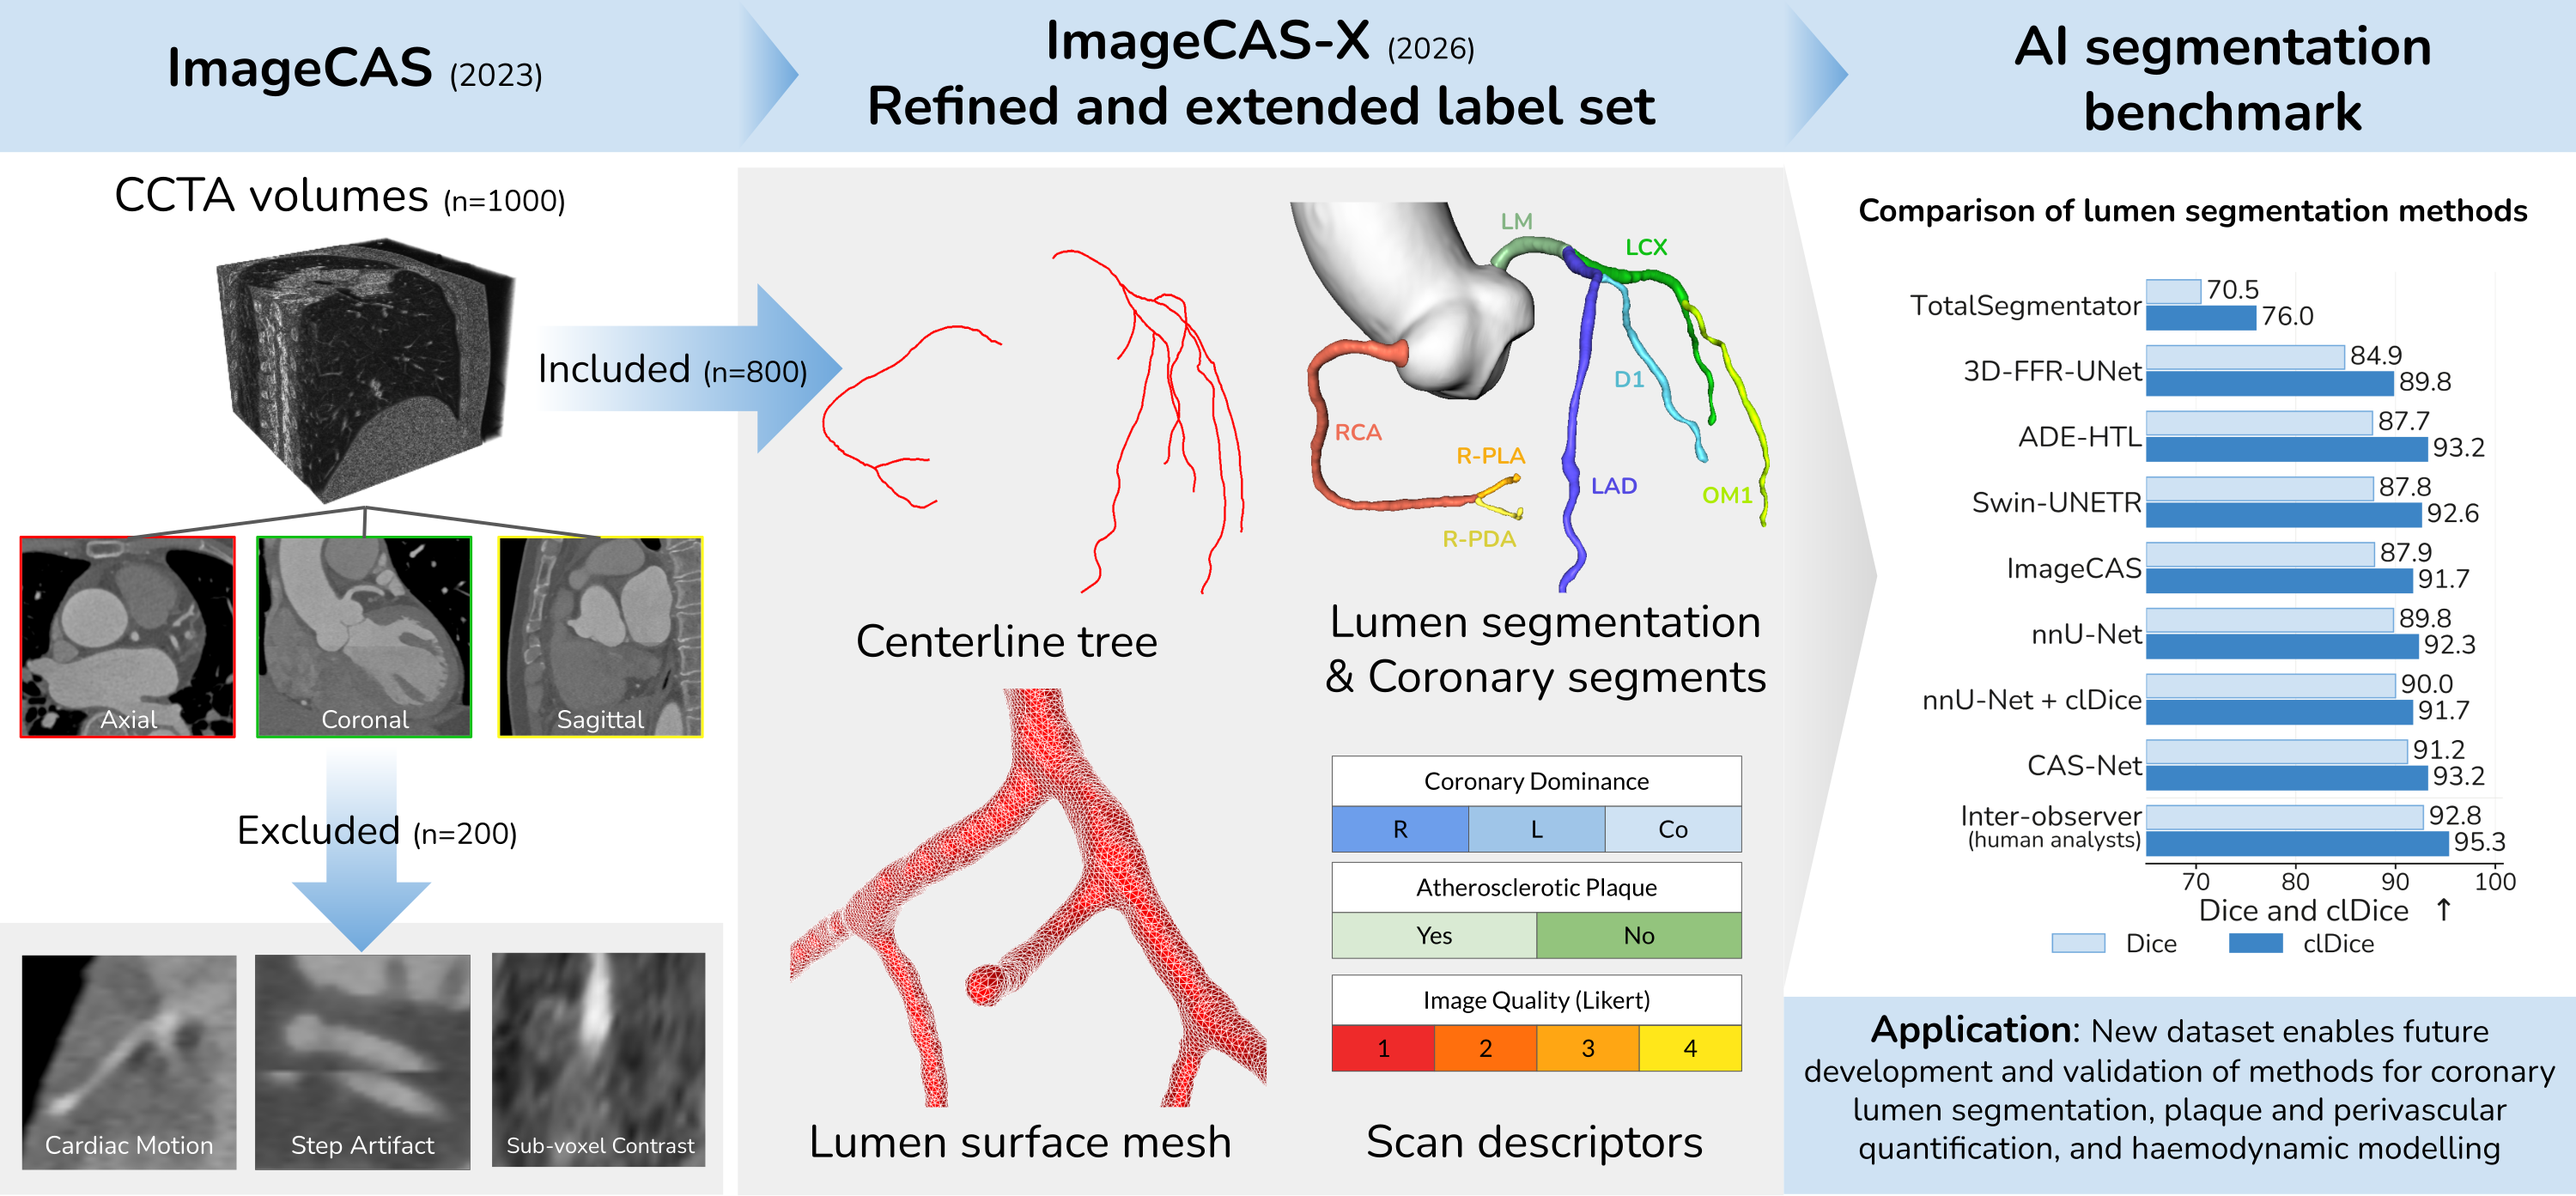
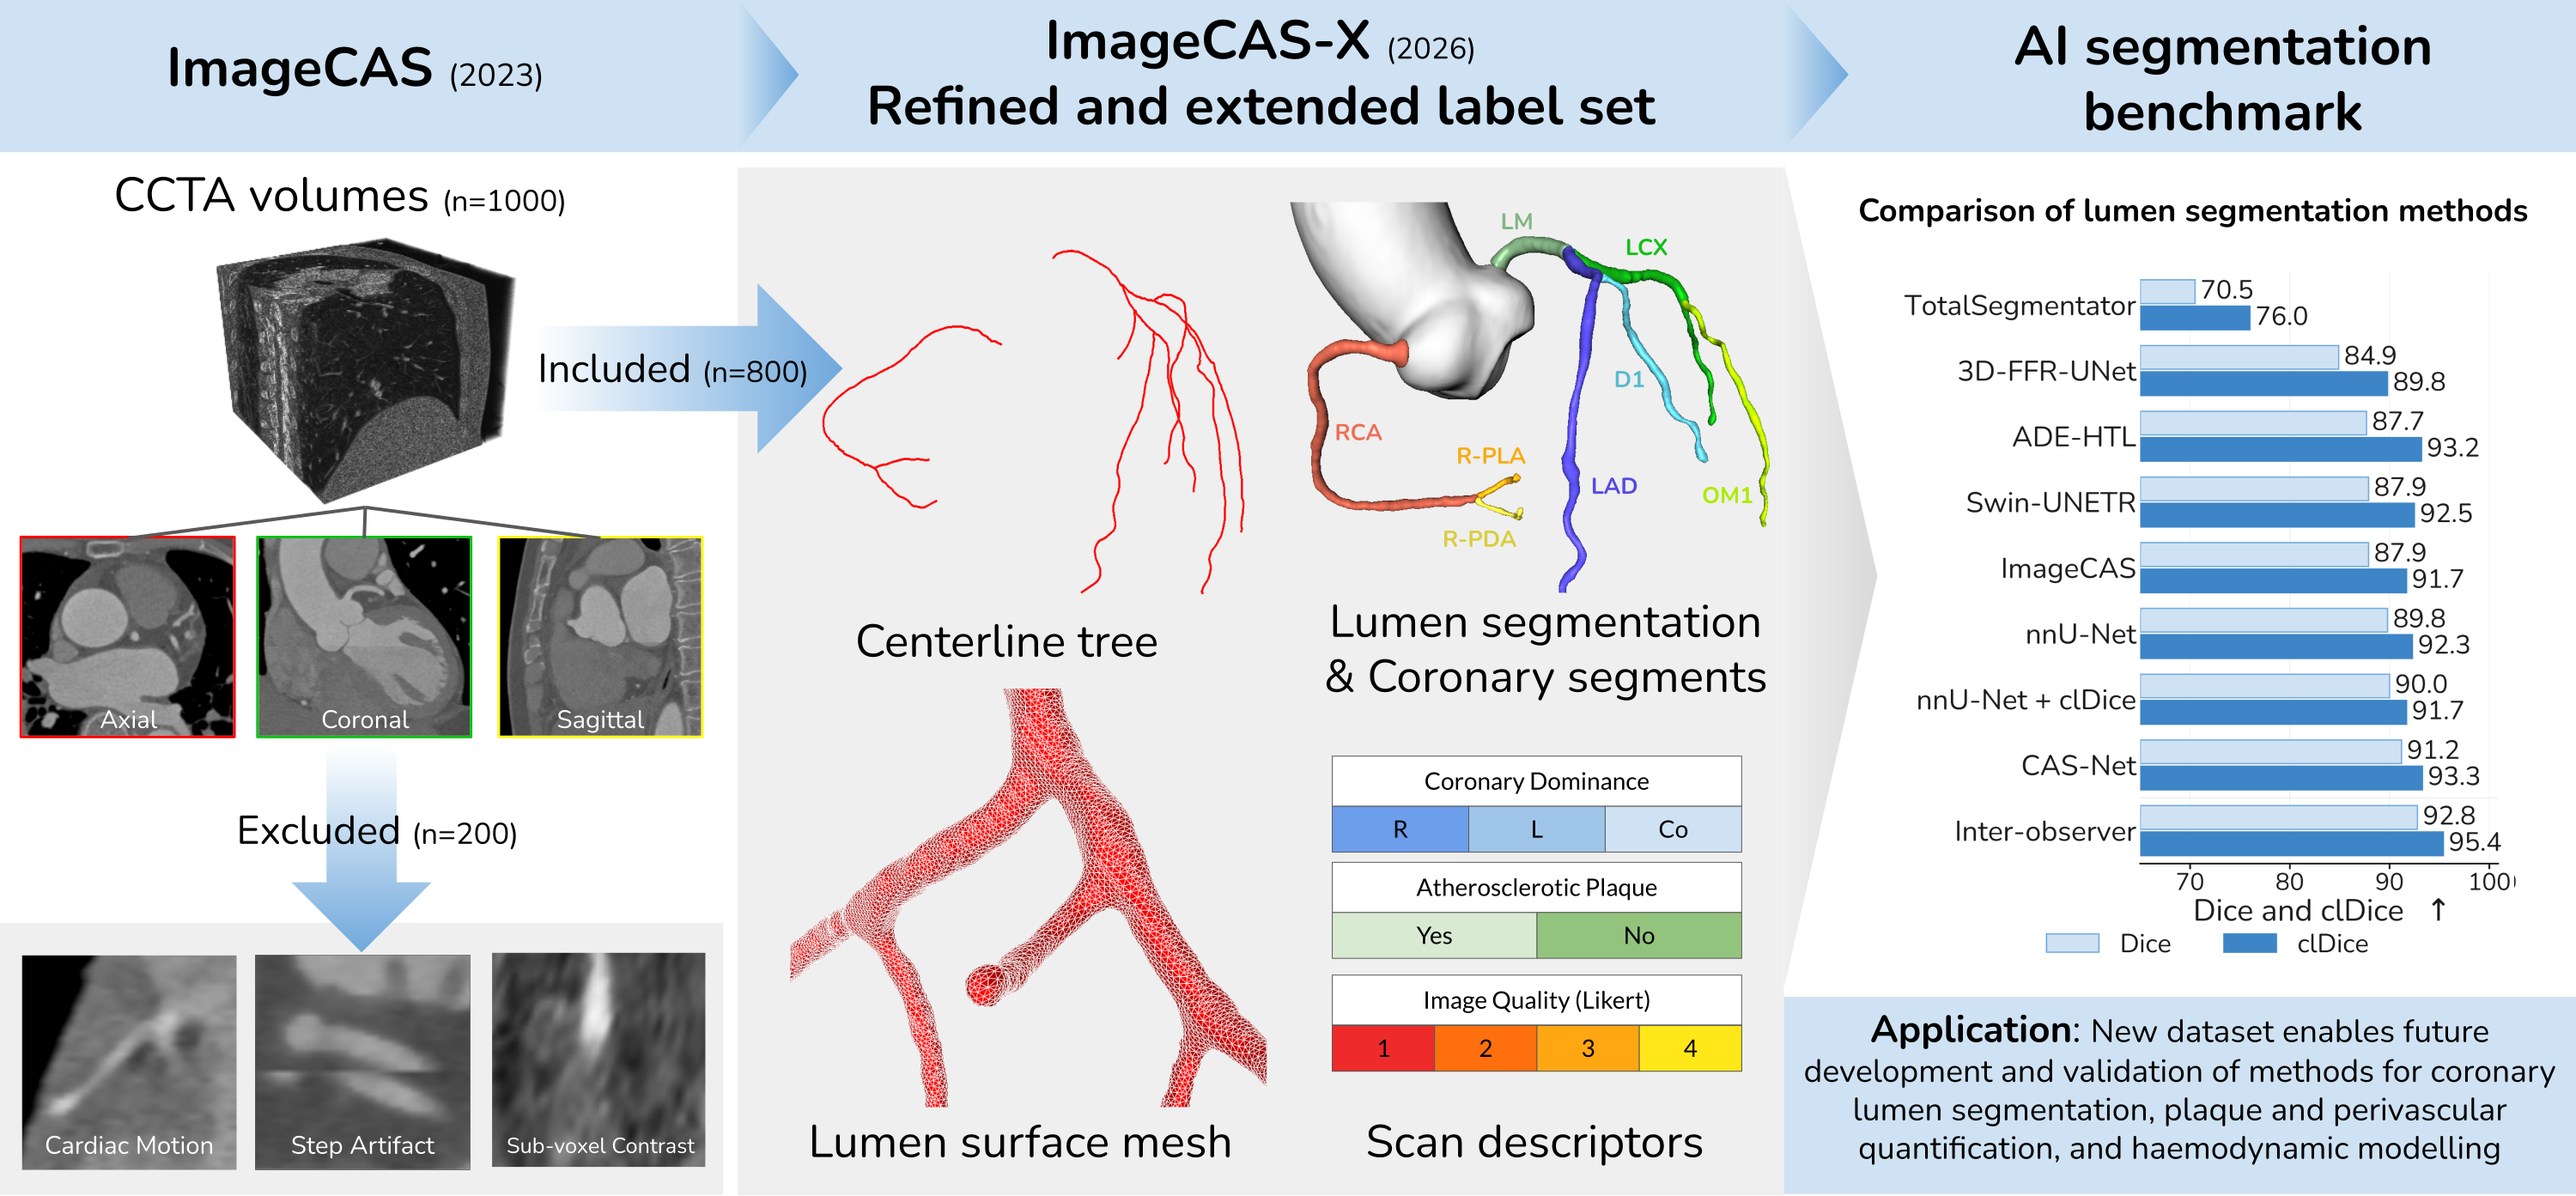
figs

diff --git a/docs/index.html b/docs/index.html
@@ -109,12 +109,12 @@
           <tbody>
             <tr>
               <th scope="row"><span class="method">TotalSegmentator</span><span class="method-src">Wasserthal et al., Radiology: AI, 2023</span></th>
-              <td class="metric">70.5 <span class="sd">± 6.0</span></td>
-              <td class="metric">19.58 <span class="sd">± 6.45</span></td>
+              <td class="metric">70.5 <span class="sd">± 6.2</span></td>
+              <td class="metric">19.59 <span class="sd">± 6.45</span></td>
               <td class="metric">4.6 <span class="sd">± 2.9</span></td>
               <td class="metric">76.0 <span class="sd">± 5.3</span></td>
-              <td class="metric">2.72 <span class="sd">± 0.90</span></td>
-              <td class="metric">23.26 <span class="sd">± 7.18</span></td>
+              <td class="metric">2.73 <span class="sd">± 0.90</span></td>
+              <td class="metric">23.26 <span class="sd">± 7.17</span></td>
             </tr>
             <tr>
               <th scope="row"><span class="method">3D-FFR-UNet</span><span class="method-src">Song et al., IEEE J-BHI, 2022</span></th>
@@ -122,40 +122,40 @@
               <td class="metric">15.93 <span class="sd">± 20.42</span></td>
               <td class="metric">4.8 <span class="sd">± 3.5</span></td>
               <td class="metric">89.8 <span class="sd">± 5.0</span></td>
-              <td class="metric">1.71 <span class="sd">± 1.55</span></td>
-              <td class="metric">17.01 <span class="sd">± 18.22</span></td>
+              <td class="metric">1.71 <span class="sd">± 1.56</span></td>
+              <td class="metric">17.00 <span class="sd">± 18.23</span></td>
             </tr>
             <tr>
               <th scope="row"><span class="method">ADE-HTL</span><span class="method-src">Zhang et al., IEEE TMI, 2023</span></th>
               <td class="metric">87.7 <span class="sd">± 2.8</span></td>
-              <td class="metric best">2.98 <span class="sd">± 3.74</span></td>
+              <td class="metric best">2.97 <span class="sd">± 3.74</span></td>
               <td class="metric best">1.5 <span class="sd">± 1.5</span></td>
-              <td class="metric best">93.2 <span class="sd">± 3.1</span></td>
-              <td class="metric">0.74 <span class="sd">± 0.38</span></td>
-              <td class="metric best">5.63 <span class="sd">± 4.84</span></td>
+              <td class="metric best">93.2 <span class="sd">± 3.2</span></td>
+              <td class="metric">0.74 <span class="sd">± 0.39</span></td>
+              <td class="metric best">5.61 <span class="sd">± 4.85</span></td>
             </tr>
             <tr>
               <th scope="row"><span class="method">Swin-UNETR</span><span class="method-src">Hatamizadeh et al., MICCAI BrainLes, 2021</span></th>
-              <td class="metric">87.8 <span class="sd">± 2.7</span></td>
+              <td class="metric">87.9 <span class="sd">± 2.7</span></td>
               <td class="metric">3.18 <span class="sd">± 3.68</span></td>
               <td class="metric">3.8 <span class="sd">± 2.3</span></td>
-              <td class="metric">92.6 <span class="sd">± 3.0</span></td>
+              <td class="metric">92.5 <span class="sd">± 3.0</span></td>
               <td class="metric">0.78 <span class="sd">± 0.36</span></td>
-              <td class="metric">6.15 <span class="sd">± 5.12</span></td>
+              <td class="metric">6.16 <span class="sd">± 5.11</span></td>
             </tr>
             <tr>
               <th scope="row"><span class="method">ImageCAS</span><span class="method-src">Zeng et al., CMIG, 2023</span></th>
               <td class="metric">87.9 <span class="sd">± 2.9</span></td>
-              <td class="metric">4.46 <span class="sd">± 4.87</span></td>
+              <td class="metric">4.45 <span class="sd">± 4.90</span></td>
               <td class="metric">4.7 <span class="sd">± 3.1</span></td>
               <td class="metric">91.7 <span class="sd">± 3.5</span></td>
-              <td class="metric">0.89 <span class="sd">± 0.45</span></td>
-              <td class="metric">7.82 <span class="sd">± 6.01</span></td>
+              <td class="metric">0.90<span class="sd">± 0.46</span></td>
+              <td class="metric">7.81 <span class="sd">± 6.03</span></td>
             </tr>
             <tr>
               <th scope="row"><span class="method">nnU-Net</span><span class="method-src">Isensee et al., Nature Methods, 2021</span></th>
               <td class="metric">89.8 <span class="sd">± 3.2</span></td>
-              <td class="metric">7.09 <span class="sd">± 12.64</span></td>
+              <td class="metric">7.08 <span class="sd">± 12.65</span></td>
               <td class="metric">5.4 <span class="sd">± 3.5</span></td>
               <td class="metric">92.3 <span class="sd">± 3.6</span></td>
               <td class="metric">1.02 <span class="sd">± 0.75</span></td>
@@ -164,37 +164,37 @@
             <tr>
               <th scope="row"><span class="method">nnU-Net + clDice</span><span class="method-src">Shit et al., CVPR, 2021</span></th>
               <td class="metric">90.0 <span class="sd">± 3.5</span></td>
-              <td class="metric">9.71 <span class="sd">± 15.35</span></td>
+              <td class="metric">9.70 <span class="sd">± 15.36</span></td>
               <td class="metric">8.0 <span class="sd">± 4.4</span></td>
               <td class="metric">91.7 <span class="sd">± 3.9</span></td>
               <td class="metric">1.20 <span class="sd">± 0.99</span></td>
-              <td class="metric">12.93 <span class="sd">± 14.21</span></td>
+              <td class="metric">12.95 <span class="sd">± 14.20</span></td>
             </tr>
             <tr>
               <th scope="row"><span class="method">CAS-Net</span><span class="method-src">Dong et al., Medical Image Analysis, 2023</span></th>
-              <td class="metric best">91.2 <span class="sd">± 2.7</span></td>
+              <td class="metric best">91.2 <span class="sd">± 2.8</span></td>
               <td class="metric">2.99 <span class="sd">± 3.47</span></td>
               <td class="metric">1.9 <span class="sd">± 1.5</span></td>
-              <td class="metric best">93.2 <span class="sd">± 3.2</span></td>
-              <td class="metric best">0.73 <span class="sd">± 0.35</span></td>
-              <td class="metric">5.75 <span class="sd">± 4.95</span></td>
+              <td class="metric best">93.3 <span class="sd">± 3.2</span></td>
+              <td class="metric best">0.73 <span class="sd">± 0.36</span></td>
+              <td class="metric">5.75 <span class="sd">± 4.98</span></td>
             </tr>
           </tbody>
           <tbody class="tbody-reference">
             <tr>
               <th scope="row"><span class="method">Inter-observer</span></th>
               <td class="metric">92.8 <span class="sd">± 3.1</span></td>
-              <td class="metric">2.50 <span class="sd">± 3.61</span></td>
+              <td class="metric">2.46 <span class="sd">± 3.62</span></td>
               <td class="metric">0.4 <span class="sd">± 0.4</span></td>
-              <td class="metric">95.3 <span class="sd">± 3.5</span></td>
+              <td class="metric">95.4 <span class="sd">± 3.6</span></td>
               <td class="metric">0.53 <span class="sd">± 0.33</span></td>
-              <td class="metric">4.64 <span class="sd">± 5.74</span></td>
+              <td class="metric">4.58 <span class="sd">± 5.75</span></td>
             </tr>
             <tr>
               <th scope="row"><span class="method">ImageCAS (labels)</span><span class="method-src">Zeng et al., CMIG, 2023</span></th>
               <td class="metric">41.8 <span class="sd">± 6.7</span></td>
-              <td class="metric">16.13 <span class="sd">± 8.28</span></td>
-              <td class="metric">7.0 <span class="sd">± 6.0</span></td>
+              <td class="metric">16.15 <span class="sd">± 8.25</span></td>
+              <td class="metric">7.0 <span class="sd">± 6.7</span></td>
               <td class="metric">78.2 <span class="sd">± 6.9</span></td>
               <td class="metric">2.23 <span class="sd">± 0.94</span></td>
               <td class="metric">18.89 <span class="sd">± 8.91</span></td>

diff --git a/evaluate.py b/evaluate.py
@@ -190,7 +190,7 @@ def evaluate(config_path: str, results_dir: str, num_workers: int = 8):
         all_results[scan_id] = metrics
         if points is not None:
             all_points[scan_id] = points
-        print(f"  {scan_id}: {metrics}")
+        # print(f"  {scan_id}: {metrics}")
 
     if num_workers <= 1:
         for scan_id in tqdm(scan_ids):
